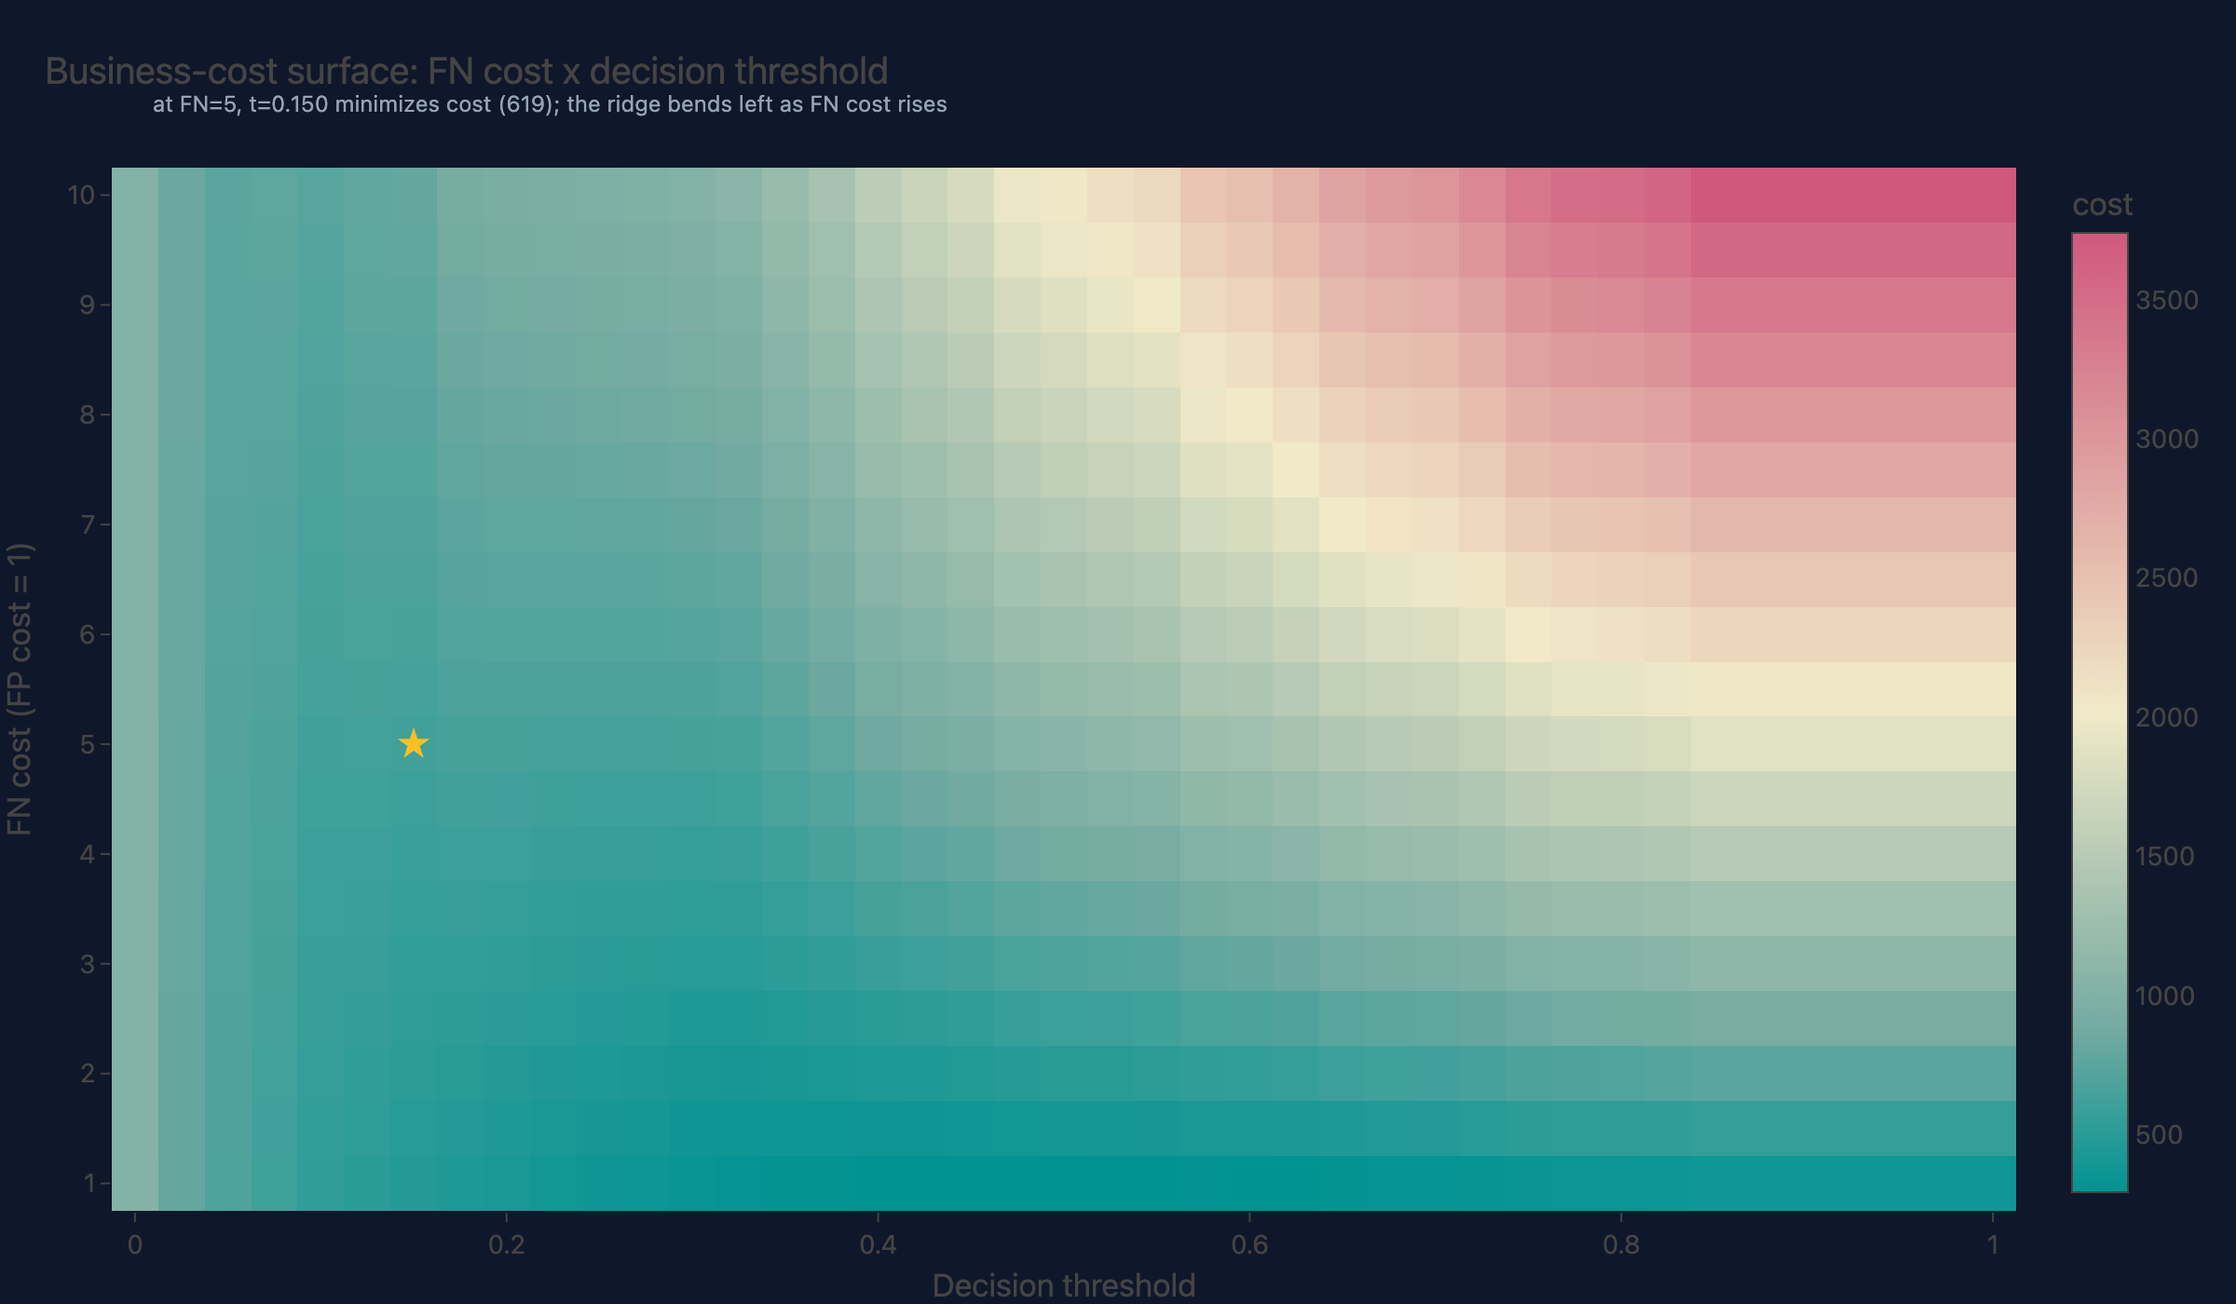
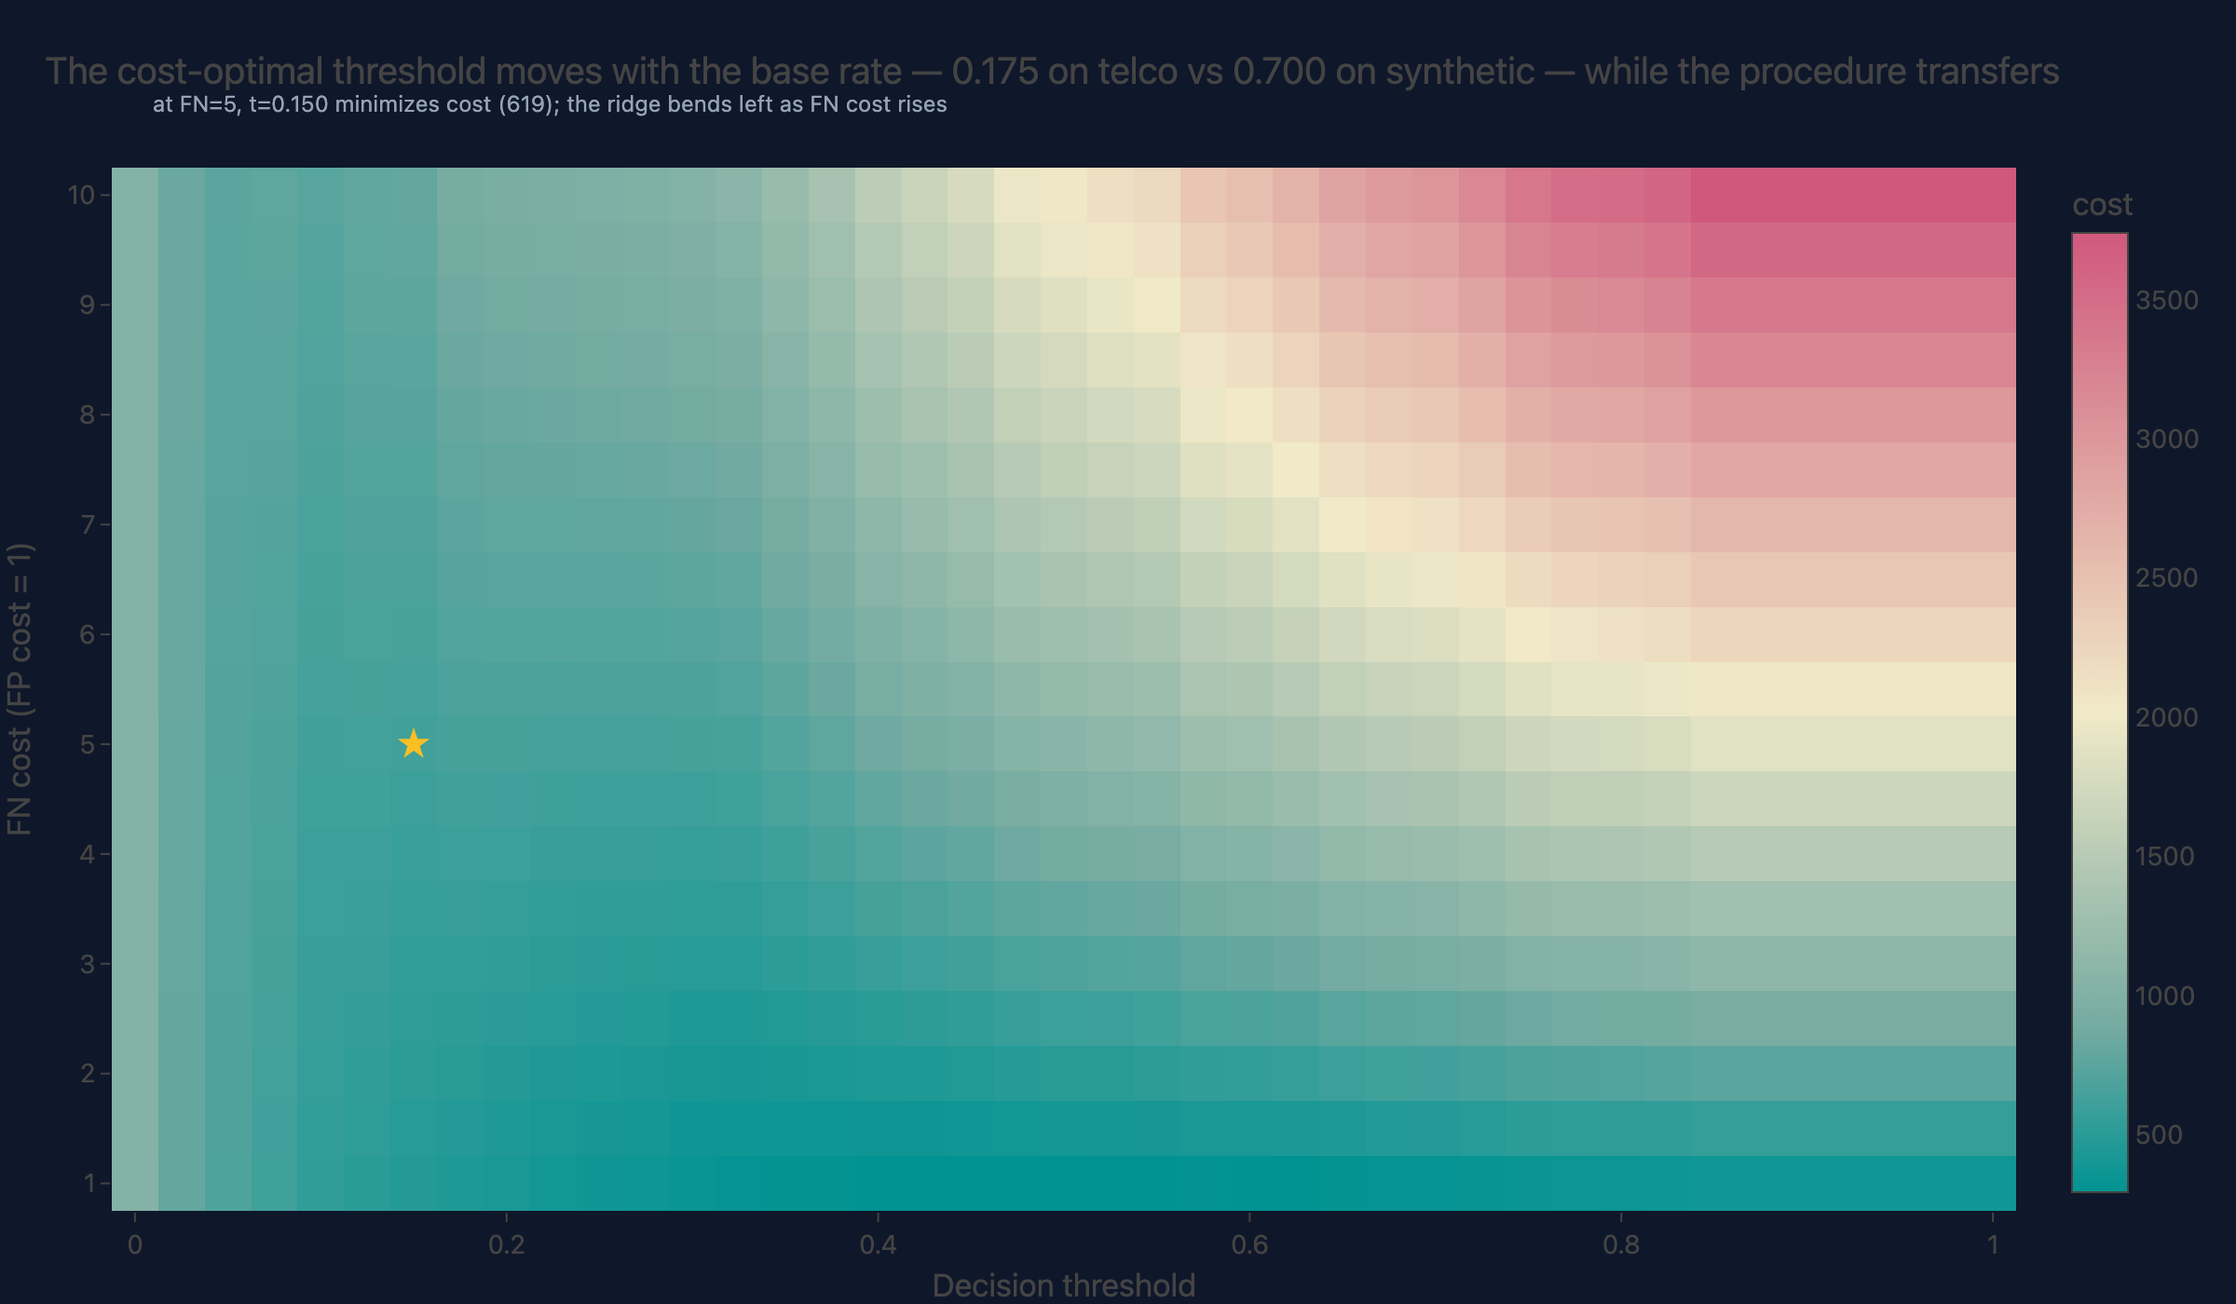
content: figure-title pass — 24 embedded figures state conclusions, not metric names
Titles/subtitles rewritten to the conclusion each figure argues (sourced from
adjacent prose), JSONs/PNGs regenerated offline, ids unchanged. Flag fixes:
02 docs PNGs now export from reports_uci (matching the UCI prose; UCI-specific
titles), 04 training_curve charts the fulldata 0.946 run, 10 plotly strings
de-TeXed ($ -> USD in titles/axes/annotations). Visual spot-checks clean.

Changed region(s): [[0.0312, 0.0307, 0.6875, 0.0614], [0.7188, 0.0307, 0.9062, 0.0614]]

diff --git a/projects/10-uplift-experimentation/src/uplift_experimentation/evaluate.py b/projects/10-uplift-experimentation/src/uplift_experimentation/evaluate.py
@@ -250,23 +250,36 @@ def cost_sensitivity_figure(read: dict[str, Any], cfg: UpliftConfig) -> go.Figur
         x=read["breakeven_cost_per_email"],
         line_dash="dot",
         line_color="#64748b",
-        annotation_text=f"break-even ${read['breakeven_cost_per_email']:.2f}/email",
+        annotation_text=f"break-even {read['breakeven_cost_per_email']:.2f} USD/email",
         annotation_position="top left",
     )
     apply_theme(fig)
     style_runs(fig, best=read["best_policy"])
+    title = (
+        f"Above ≈{read['breakeven_cost_per_email']:.2f} USD/email the targeted "
+        f"top-{read['policy_budget']:.0%} policy beats mail-everyone"
+    )
+    half = next((r for r in read["rows"] if abs(r["cost_per_email"] - 0.5) < 1e-9), None)
+    if half is not None:
+        profit_max = half["profit_at_max"]
+        profit_all = half["profit_mail_everyone"]
+
+        def _signed(v: float) -> str:
+            return f"-{abs(v):,.0f}" if v < 0 else f"{v:,.0f}"
+
+        title += f" — {_signed(profit_max)} vs {_signed(profit_all)} USD at 0.50/email"
     fig.update_layout(
-        title="Cost sensitivity — when does targeted top-k beat mail-everyone?",
-        xaxis_title="cost per email ($, log scale)",
-        yaxis_title="profit ($)",
+        title=title,
+        xaxis_title="cost per email (USD, log scale)",
+        yaxis_title="profit (USD)",
         xaxis_type="log",
         legend={"orientation": "h", "y": -0.2},
     )
     add_takeaway(
         fig,
-        f"At ${cfg.cost_per_email:.2f}/email mail-everyone wins on raw profit; the top-"
+        f"At {cfg.cost_per_email:.2f} USD/email mail-everyone wins on raw profit; the top-"
         f"{read['policy_budget']:.0%} policy overtakes once sends cost more than "
-        f"${read['breakeven_cost_per_email']:.2f} each (fatigue/list-wear pricing).",
+        f"{read['breakeven_cost_per_email']:.2f} USD each (fatigue/list-wear pricing).",
     )
     return fig
 
@@ -379,7 +392,10 @@ def qini_figure(
                 hoverinfo="skip",
             )
     fig.update_layout(
-        title="Qini curves — incremental conversions vs targeted fraction",
+        title=(
+            "The response model posts the highest Qini area, but its paired "
+            "difference CI spans zero — the ranking is not established"
+        ),
         xaxis_title="fraction of customers targeted (top scores first)",
         yaxis_title="incremental conversions",
         legend={"orientation": "h", "y": -0.2},
@@ -435,10 +451,13 @@ def profit_figure(
     apply_theme(fig)
     style_runs(fig, best="x_learner")
     fig.update_layout(
-        title="Profit frontier under the campaign cost model",
+        title=(
+            "Top-25% T-learner beats random by +2,812 USD (+69%); "
+            "mail-everyone is the profit maximum at 0.01 USD/email"
+        ),
         xaxis_title="budget fraction (share of customers emailed)",
-        yaxis_title=f"profit (revenue ${cfg.revenue_per_conversion:.0f}/conversion, "
-        f"${cfg.cost_per_email:.2f}/email)",
+        yaxis_title=f"profit (revenue {cfg.revenue_per_conversion:.0f} USD/conversion, "
+        f"{cfg.cost_per_email:.2f} USD/email)",
         legend={"orientation": "h", "y": -0.2},
     )
     add_takeaway(

diff --git a/projects/09-agentic-workflows/src/agentic_workflows/evals.py b/projects/09-agentic-workflows/src/agentic_workflows/evals.py
@@ -688,7 +688,10 @@ def _fig_tool_usage_matrix(cases: list[Any]) -> go.Figure:
         ]
     )
     fig.update_layout(
-        title="Tool-usage matrix: calls per task (captured per tool call)",
+        title=(
+            "Tool over-calling is visible per task — note_store, search_documents, "
+            "duplicate in-set calls"
+        ),
         xaxis_title="task",
         yaxis_title="",
     )
@@ -777,7 +780,10 @@ def _fig_node_waterfall(cases: list[Any]) -> go.Figure:
     budget = max((case.inputs.latency_budget_s for case in cases), default=180.0)
     fig.update_layout(
         barmode="stack",
-        title="Node waterfall: latency stacked per graph visit (repeats labelled #2, #3)",
+        title=(
+            "Every task completes in 10-27 s — far under the 180 s budget; "
+            "a retry appears as an extra labelled segment, never one long visit"
+        ),
         xaxis_title="seconds",
         yaxis={"title": "", "autorange": "reversed"},
         shapes=[
@@ -1035,7 +1041,10 @@ def _fig_agent_architecture() -> go.Figure:
     fig.update_layout(annotations=annotations)
     apply_theme(fig, height=470)
     fig.update_layout(
-        title="Agent architecture: explicit graph — every transition, retry and loop bound is code",
+        title=(
+            "Every plan/execute/critique transition, retry and loop bound is "
+            "explicit code — the graph the workflow actually runs"
+        ),
     )
     add_takeaway(
         fig,

diff --git a/projects/07-open-data-mobility/src/mobility/evaluate.py b/projects/07-open-data-mobility/src/mobility/evaluate.py
@@ -329,7 +329,10 @@ def fig_weather_elasticity(by_borough: pl.DataFrame) -> go.Figure:
     )
     fig.add_hline(y=1.0, line_dash="dash", line_color="#f472b6")
     fig.update_layout(
-        title="Weather elasticity: mean hourly pickups, rain (≥1 mm) vs dry, by borough",
+        title=(
+            "Rain cuts outer-borough curb demand 7-10% — Queens 0.92x, Staten Island 0.93x — "
+            "while Manhattan holds at 0.97x and EWR rises 1.08x"
+        ),
         yaxis_title="rain / dry ratio",
     )
     obs = by_borough.drop_nulls("rain_vs_dry_ratio")
@@ -606,7 +609,14 @@ def build_report(cfg: MobilityConfig | None = None) -> Path:
         "p90_band": fig_p90_band(preds),
         "p90_calibration": fig_p90_calibration(coverage_borough),
         "gbm_vs_nn": add_takeaway(
-            RunComparison(runs).figure(metric_names=["mae", "rmse", "mape_pct"]),
+            RunComparison(runs)
+            .figure(metric_names=["mae", "rmse", "mape_pct"])
+            .update_layout(
+                title=(
+                    "The served GBM removes 28.4% of forecast error vs last-week "
+                    "persistence — the neural challenger wins MAPE only"
+                )
+            ),
             f"Best run: {ranking['ranking'][0]} "
             f"(MAE {best_mae:.2f}); naive_lag24 is the grey persistence reference.",
         ),

diff --git a/scripts/export_readme_figures.py b/scripts/export_readme_figures.py
@@ -38,7 +38,7 @@ FIGURES: dict[str, tuple[str, str, str]] = {
 # (docs/projects/<id>.md): project dir → figure stems, in page order.
 DOCS_FIGURES: dict[str, tuple[str, ...]] = {
     "01-rag-agent": ("chunk_size_sweep", "failure_taxonomy"),
-    "02-demand-forecasting": ("forecast_vs_actual", "metrics_bars"),
+    "02-demand-forecasting": ("reports_uci/figures/forecast_vs_actual", "metrics_bars"),
     "03-anomaly-detection": ("nab_timelines",),
     "04-nlp-classification": ("confusion_matrix_selected", "training_curve"),
     "05-ml-pipeline-churn": ("business_cost_curve", "cost_surface"),
@@ -79,7 +79,12 @@ def main() -> None:
     for project, stems in DOCS_FIGURES.items():
         out_dir = ASSETS / "projects" / project
         for stem in stems:
-            src = REPO / "projects" / project / "reports" / "figures" / f"{stem}.json"
+            # Stems containing "/" are project-relative paths (e.g. the UCI
+            # track's figures live under reports_uci/figures/).
+            if "/" in stem:
+                src = REPO / "projects" / project / f"{stem}.json"
+            else:
+                src = REPO / "projects" / project / "reports" / "figures" / f"{stem}.json"
             if not src.exists():
                 print(f"SKIP {project}/{stem} — artifact missing (run the project's pipeline)")
                 continue

diff --git a/projects/02-demand-forecasting/src/demand_forecasting/evaluate.py b/projects/02-demand-forecasting/src/demand_forecasting/evaluate.py
@@ -246,7 +246,9 @@ def figure_forecast_vs_actual(result: BacktestResult) -> go.Figure:
             mode="lines",
             line={"dash": "dot"},
         )
-    fig.update_layout(title=f"Actual vs forecast — last CV fold ({model} vs {naive})")
+    fig.update_layout(
+        title=f"{model} clears the {naive} floor by {reduction:.0%} MAE — last CV fold"
+    )
     # platform storytelling convention: naive floor demoted, best run promoted
     style_runs(fig, best=model)
     add_takeaway(
@@ -260,7 +262,17 @@ def figure_forecast_vs_actual(result: BacktestResult) -> go.Figure:
 def figure_metrics_bars(result: BacktestResult) -> go.Figure:
     """Grouped bar chart of MAE / RMSE / MAPE across all runs (naives included)."""
     fig = RunComparison(result.runs).figure()
-    fig.update_layout(title="Per-model metrics (pooled out-of-fold)")
+    n_below = sum(
+        1
+        for r in result.runs
+        if (m := next((x for x in r.metrics if x.name == "mase"), None)) is not None and m.value < 1
+    )
+    fig.update_layout(
+        title=(
+            f"{n_below} run(s) clear the seasonal-naive floor (MASE < 1) — "
+            "pooled out-of-fold ladder"
+        )
+    )
     return fig
 
 

diff --git a/projects/01-rag-agent/src/rag_agent/figures.py b/projects/01-rag-agent/src/rag_agent/figures.py
@@ -55,7 +55,10 @@ def sweep_figure(
         )
     fig.update_layout(
         barmode="group",
-        title="Retrieval quality vs chunk size (random-retrieval baseline dashed)",
+        title=(
+            "Chunk size, not model size, sets retrieval recall — 200-token chunks "
+            "hold full recall@5 at 65% lower context cost"
+        ),
         xaxis_title="chunk size (tokens)",
         yaxis_title="score",
     )
@@ -127,7 +130,10 @@ def hpo_frontier_figure(
         )
     )
     fig.update_layout(
-        title="Retrieval HPO frontier: recall@k vs estimated input tokens",
+        title=(
+            "Retrieval HPO finds the quality-cost knee: recall@5 0.831 at "
+            "≈800 input tokens per query"
+        ),
         xaxis_title="estimated input tokens per query",
         yaxis_title="recall@k",
     )
@@ -215,7 +221,7 @@ def taxonomy_figure(traces: list[QuestionTrace]) -> go.Figure:
         ]
     )
     fig.update_layout(
-        title="Failure taxonomy (per-question verdicts)",
+        title="Verify-then-answer cuts unsupported claims from 60% to 47% of answers",
         xaxis_title="verdict",
         yaxis_title="questions",
     )

diff --git a/projects/08-inference-serving/src/inference_serving/figures.py b/projects/08-inference-serving/src/inference_serving/figures.py
@@ -31,7 +31,10 @@ def fig_latency_concurrency(run: BenchRun, cfg: BenchConfig) -> go.Figure:
             name=next((_label(c) for c in subset), model),
         )
     fig.update_layout(
-        title="p95 latency vs concurrency (structured-output task, 8 prompts x 5 repeats)",
+        title=(
+            "p95 latency grows roughly linearly with concurrency while aggregate tok/s "
+            "stays flat — decode is memory-bandwidth bound"
+        ),
         xaxis_title="concurrency (semaphore)",
         yaxis_title="p95 latency (s)",
         xaxis={"dtick": 1},
@@ -127,7 +130,10 @@ def fig_engine_panel(run: BenchRun, cfg: BenchConfig) -> go.Figure:
     fig.add_bar(x=labels, y=[c.p95_latency_s for c in cells], row=1, col=1)
     fig.add_bar(x=labels, y=[c.agg_tok_per_s for c in cells], row=1, col=2)
     fig.update_layout(
-        title="Engine comparison: llama.cpp (GGUF Q8_0) vs MLX runner (4-bit), gemma4:31b",
+        title=(
+            "MLX 4-bit beats GGUF Q8_0 on llama.cpp by 2.9x on tok/s (18.8 vs 6.4) "
+            "with p95 2.47 s vs 7.12 s at concurrency 1"
+        ),
         barmode="group",
         showlegend=False,
     )

diff --git a/projects/06-routing-optimization/src/routing_optimization/figures.py b/projects/06-routing-optimization/src/routing_optimization/figures.py
@@ -293,7 +293,10 @@ def family_gap_figure(rows: pl.DataFrame) -> go.Figure:
         )
     fig.update_layout(
         barmode="group",
-        title="Per-family comparison vs published best-known solutions (56 instances)",
+        title=(
+            "HPO-tuned ALNS closes the gap to best-known optima into single "
+            "digits on every Solomon family"
+        ),
         xaxis2_title="family",
     )
     add_takeaway(
@@ -319,7 +322,10 @@ def pareto_figure(rows: pl.DataFrame) -> go.Figure:
         y="mean_gap_pct",
         color="solver",
         log_x=True,
-        title="Pareto: mean runtime vs mean distance gap (all solvers, 56 instances)",
+        title=(
+            "The hand-written ALNS ladder dominates the speed-quality Pareto; "
+            "hinted CP-SAT buys little quality at ~5x the runtime"
+        ),
         labels={
             "mean_runtime_s": "mean runtime (s, log)",
             "mean_gap_pct": "mean gap to best-known (%)",

diff --git a/projects/05-ml-pipeline-churn/src/churn_pipeline/evaluate.py b/projects/05-ml-pipeline-churn/src/churn_pipeline/evaluate.py
@@ -230,7 +230,10 @@ def cost_surface_figure(
         marker={"size": 13, "symbol": "star", "color": "#fbbf24"},
     )
     fig.update_layout(
-        title="Business-cost surface: FN cost x decision threshold",
+        title=(
+            "The cost-optimal threshold moves with the base rate — 0.175 on telco "
+            "vs 0.700 on synthetic — while the procedure transfers"
+        ),
         xaxis_title="Decision threshold",
         yaxis_title="FN cost (FP cost = 1)",
     )
@@ -522,7 +525,10 @@ def cost_figure(
             marker={"size": 11, "symbol": "star"},
         )
     fig.update_layout(
-        title=f"Business cost curve (FP={cfg.fp_cost:g}, FN={cfg.fn_cost:g})",
+        title=(
+            "Cost-aware selection plus isotonic calibration cuts business "
+            "cost 41.9% vs doing nothing"
+        ),
         xaxis_title="Decision threshold",
         yaxis_title=f"Total cost (FP·{cfg.fp_cost:g} + FN·{cfg.fn_cost:g})",
     )

diff --git a/projects/06-routing-optimization/src/routing_optimization/evaluate.py b/projects/06-routing-optimization/src/routing_optimization/evaluate.py
@@ -553,7 +553,7 @@ def run_evaluate(cfg: VRPConfig) -> Path:
     if map_eval.best_routes is not None:
         best = map_eval.best()
         gap = (
-            f", gap {gap_pct(best.total_distance, map_eval.best_known):.2f}%"
+            f" — within {gap_pct(best.total_distance, map_eval.best_known):.2f}% of best-known"
             if map_eval.best_known is not None
             else ""
         )
@@ -561,8 +561,8 @@ def run_evaluate(cfg: VRPConfig) -> Path:
             map_problem,
             map_eval.best_routes,
             title=(
-                f"{map_eval.instance} best solution — {best.n_vehicles} vehicles, "
-                f"{best.total_distance:.2f} km{gap}"
+                f"ALNS routes all 100 {map_eval.instance} customers feasibly "
+                f"(capacity + time windows{gap})"
             ),
         )
 

diff --git a/projects/03-anomaly-detection/src/anomaly_detection/nab.py b/projects/03-anomaly-detection/src/anomaly_detection/nab.py
@@ -372,8 +372,12 @@ def nab_figures(
             row=row,
             col=col,
         )
+    n_alerts = sum(int(r["alerts_fired"]) for r in results.values())
     fig.update_layout(
-        title="NAB series — true anomaly windows (shaded) vs. detected alerts (pink x)",
+        title=(
+            "Real NAB telemetry hides labelled incidents in noisy baselines — "
+            f"most of the {n_alerts:,} alerts miss the event windows"
+        ),
         height=1100,
     )
     add_takeaway(fig, "One panel per series: real anomaly windows are contextual, not just spikes.")

diff --git a/projects/07-open-data-mobility/src/mobility/geo.py b/projects/07-open-data-mobility/src/mobility/geo.py
@@ -84,7 +84,10 @@ def fig_zone_demand_map(demand: pl.DataFrame) -> go.Figure:
     fig = _choropleth(
         gdf,
         means,
-        "NYC taxi demand geography — mean pickups per zone-hour (2024)",
+        (
+            "Zone-hour demand concentrates in Midtown/Manhattan cores and the "
+            "JFK/EWR airports — the 265-zone grid is far from flat"
+        ),
         "Teal",
         "pickups/h",
     )
